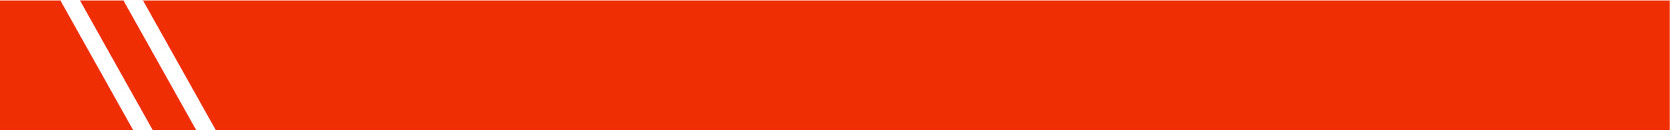
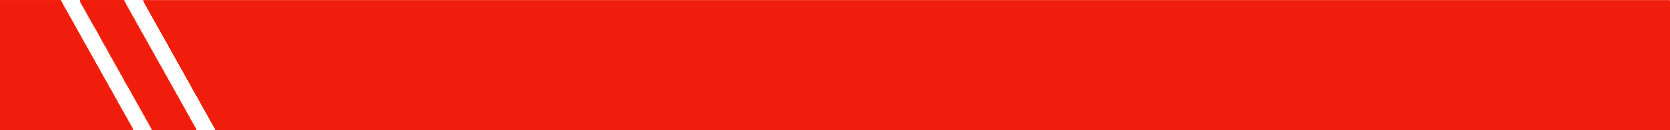
resources mock up and red fix

Changed region(s): [[0.0, 0.0, 1.0, 1.0], [0.0623, 0.8, 0.0934, 0.8308]]

diff --git a/htmlMockups/resources.html b/htmlMockups/resources.html
@@ -1,0 +1,119 @@
+<!DOCTYPE html>
+<html lang="en">
+<head>
+
+	<!-- metadata -->
+	<link href='http://fonts.googleapis.com/css?family=Open+Sans:400,600,700,300' rel='stylesheet' type='text/css'>
+	<link rel="icon" href="images/favicon.ico" />
+	<title>frc2590 | Team Nemesis Robotics | Robbinsville High School Robotics</title>
+	<meta charset="utf-8">
+	<meta name="description" content= "FRC Team 2590, Nemesis, is an award winning FIRST Robotics team 
+			based out of Robbinsville High School in New Jersey">
+	<meta name="keywords" content= "nemesis,robotics,robbinsville,FIRST,frc2590,high school,competition">
+	
+	<!-- stylesheets -->
+	<link rel="stylesheet" href="scripts/FlexSlider/flexslider.css" type="text/css">
+	<link rel="stylesheet" href="css/main.css" type="text/css">
+	<!-- javascript -->
+	<script src="https://ajax.googleapis.com/ajax/libs/jquery/1.6.2/jquery.min.js"></script>
+	<script src="scripts/FlexSlider/jquery.flexslider-min.js"></script>
+	<script src="scripts/functions.js"></script>
+	
+	<script>
+	$(window).load(function() {
+	  $('.flexslider').flexslider({
+		animation: "slide"
+	  });
+	});
+	</script>
+
+</head>
+<body>
+	<header id="header-home" class="container">
+		<div id="nemesis">
+			<img src="images/Nemesis_transparent_black.png">
+			<div id="frc"><div class="red">//</div> FRC 2590</div>
+		</div>
+		<div id="logo"><a href= "index.html"><img src="images/logo_winged.jpg"></a></div>
+	</header>
+	
+	<div id="main" class="container">
+
+		<div id="content">
+			<div id="resources-container" class="border">
+				<div id="blockLeft" class="border">
+					<img src="images/resources.jpg" width="200px">
+					<div id="fields">
+						<p>a compilation of useful resources for FRC2590</p>
+					</div>
+				</div>
+				<div id="blockList">
+					<h3 id="heading" class="border"><b>FIRST community</b></h3>
+					<ul>
+						<li><a  href="http://www.chiefdelphi.com/forums/portal.php">Chief Delphi</a></li>
+						<li><a  href="http://www.thebluealliance.com/">The Blue Alliance</a></li>
+						<li><a href="http://www.theredalliance.com/">The Red Alliance</a></li>
+						<li><a  href="http://www.midatlanticrobotics.com/">MAR | Mid Atlantic Robotics</a></li>
+						<li><a  href="http://forums.usfirst.org/forum.php">FIRST forums</a></li>
+						<li><a  href="http://www.usfirst.org/whats-going-on/team/FRC/213401">FRC2590 FIRST entry</a></li>
+						<li><a  href="http://frcmastery.com">LabVIEW Training/Resources</a></li>
+						<li><a  href="http://www.usfirst.org/roboticsprograms/frc/frc-season-calendar">FRC Season Calendar</a></li>
+					</ul>
+				</div>
+				<div id="tutorials">
+					<h3 id="heading" class="border">tutorials</h3>
+					<ul>
+						<li>How to Fix a Terrible photo</li>
+						<li>How to contribute to the website</li>
+						<li>How to set up GitHub</li>
+					</ul>
+				</div>
+				
+				<div id="tumblr">
+					<div class='tumblr'>
+						<img src="images/blog/feature3.jpg">
+					</div>
+				</div>
+				<div id="blockList">
+					<h3 id="heading" class="border"><b>Nemesis Media</b></h3>
+					<ul>
+						<li><a  href="http://www.flickr.com/photos/frc2590/sets/">Flickr Photo Gallery</a></li>
+						<li><a  href="http://www.youtube.com/user/FRC2590">Youtube Channel</a></li>
+						<li><a  href="http://frc2590.tumblr.com/">Live Blog</a></li>
+						<li><a  href="https://twitter.com/FRC2590">Twitter</a></li>
+					</ul>
+				</div>
+
+			</div><!--resources-container-->
+		</div><!--content-->
+		
+		<aside id="sidebar">
+			<img src="images/div1.jpg">
+			<nav>
+				<ul>
+					<li><a href="about.html">About</a></li>  
+					<li><a href="robots.html">Robots</a></li>  
+					<li><a href="sponsors.html">Sponsors</a></li>  
+					<li><a href="community.html">Community</a></li> 
+					<li><a href="blogs.html">Blog</a></li> 
+					<li><a href="calendar.html">Calendar</a></li>  	
+					<li><a href="resources.html">Resources</a></li>
+				</ul>
+			</nav>
+			<img src="images/div2.jpg">
+			<section>
+			</section>
+			<div id="first"><a href="http://www.usfirst.org/"><img src="images/first.jpg" border="0"></a></div>
+		</aside> <!-- sidebar -->
+		
+	</div> <!--container-->
+	<footer id="foot" class="container">
+	<section>&reg;2014 FRC 2590 | Nemesis</br>Robbinsville High School</br>Robbinsville NJ</br><a href="mailto:frc2590@gmail.com?Subject=Hello%20Nemesis" target="_top">
+Contact Us</a></section>
+	<section>sponsor</section>
+	<section>sponsor</section>
+	<section>sponsor</section>
+	</footer>
+
+</body>
+</html>

diff --git a/htmlMockups/css/main.css b/htmlMockups/css/main.css
@@ -29,6 +29,7 @@
 	color: #575656;
 	font-family: 'Open Sans', Verdana, Helvetica, sans-serif;
 	font-size: 12px;
+	height: 100%;
  }
  h1{
 	/*font-family:"codeBold";*/
@@ -40,7 +41,7 @@
  h2{
 	font-family: 'Open Sans', Verdana, Helvetica, sans-serif;
 	text-transform:uppercase;
-	color:#e62901;
+	color:#f01d0c;
 	margin:0px;
 	font-weight:400;
 	font-size:20px;
@@ -48,21 +49,21 @@
  h3{
 	font-family: 'Open Sans', Verdana, Helvetica, sans-serif;
 	text-transform:uppercase;
-	color:#e62901;
+	color:#f01d0c;
 	font-weight:400;
 	font-size:14px;
 	margin: 0px;
  }
  a{
 	text-decoration:none;
-	color:#e62901
+	color:#f01d0c;
  }
  ul{
 	list-style:none;
 	padding:0px;
  }
 .red{
-	color:#e62901;
+	color:#f01d0c;
 	display:inline-block;
 	vertical-align:top;
 }
@@ -149,7 +150,8 @@
 
  #main{
 	background-color:#fff;
-	width: 1100px
+	width: 1100px;
+	height:100%;
  }
  #main-container{
 	padding:20px;
@@ -158,6 +160,7 @@
 	float: left;
 	vertical-align:top;
 	width:75%;
+	height:100%;
 }
 #flexslider-container{
 	height:560px;
@@ -180,7 +183,7 @@
 	bottom: 100px;
 	
 	padding-top:10px;
-	background: rgba(0,0,0,.6);
+	background: rgba(255,18,12,.6);
 	color: #fff;
 	text-align: center;
 	font-size: 14px;
@@ -272,7 +275,7 @@ aside{
 	
 	#sidebar section{
 		border-style: solid none;
-		border-color: #e62901;
+		border-color: #f01d0c;
 		width: 240px;
 	}
 	#sidebar p{
@@ -309,7 +312,7 @@ aside{
 				transition:color 1s ease;  
 			}
 			nav a:hover{
-				color:#e62901; /*red*/
+				color:#f01d0c; /*red*/
 			}
 	
 /* this targets the default scrollbar (compulsory) 
@@ -332,7 +335,7 @@ aside{
  #stripe{
 	width:100%;
 	height:5px;
-	background-color:#e62901;
+	background-color:#f01d0c;
  }
  #foot{margin-top:20px;
 	}
@@ -352,7 +355,7 @@ aside{
 	display:inline-block;
 	vertical-align:top;
 	border-style:none none none dotted;
-	border-color:#e62901;
+	border-color:#f01d0c;
 	border-width:2px;
 	overflow:hidden;
 	}
@@ -484,7 +487,7 @@ aside{
 .bio:hover:before{
     border: solid;
    /* border-color: #333 transparent;*/
-	border-color: #e62901 transparent; 
+	border-color: #f01d0c transparent; 
     border-width: 6px 6px 0 6px;
     bottom: 150px;
     content: "";
@@ -695,7 +698,7 @@ aside{
 			margin-top:10px;
 			border-style:none none solid none;
 			border-width:4px;
-			border-color:#e62901;
+			border-color:#f01d0c;
 			background-size:cover;
 			background-repeat:no-repeat;
 			background-position:center; 
@@ -887,3 +890,65 @@ aside{
 #sponsors-container #barR{
 	height:7px;
 }
+/* ======================================================*/
+/* Resources */
+
+#resources-container{
+	margin:20px;
+	border-style: none dotted none none;
+	height:100%;
+	font-size:14px;
+}
+	#resources-container li{
+		/*
+		border-style: dotted none none none;
+		border-color: #d6d6d6;
+		border-width: 2px;
+		margin-left:40px;*/
+		padding:4px 0;
+	}
+	#resources-container a{
+		color: #a4a4a4;
+	}
+#blockLeft{
+	width:230px;
+	height:100%;
+	border-style:none dotted none none;
+	padding: 0 10px;
+	display:inline-block;
+	vertical-align:top;
+}
+#blockList{
+	display:inline-block;
+	vertical-align:top;
+	padding:10px;
+	margin-left:10px;
+	/*width: 535px;*/
+	width: 220px;
+	height:290px;
+}
+
+#heading{
+	margin-bottom:20px;
+	border-style:none none dotted none;
+}
+#tumblr{
+	width:500px;
+	display:inline-block;
+}
+	#tumblr img{
+		width:500px;
+	}
+#tutorials{
+	display:inline-block;
+	width:230px;
+	height:100%;
+	vertical-align:top;
+	padding:10px 10px;
+
+	color:#fff;
+	background-color:rgba(255,18,12,.9);
+}
+	#tutorials #heading{
+		color: white;
+	}

diff --git a/processWire templates/home.php b/processWire templates/home.php
@@ -18,7 +18,7 @@ include("./header.inc");
 								echo "<li><img src='{$i->url}'/></li>";
 							}
 							/*pull featuredImages tagged "featured"*/
-							$featuredPages = $pages->find("featuredImage.tags=featured, limit=4, sort-=date");
+							$featuredPages = $pages->find("featuredImage.tags=featured, limit=6, sort-=date");
 							foreach($featuredPages as $k){
 								echo "<li><img src='{$k->featuredImage->url}'/>";
 								echo "<p class='flex-caption'>
